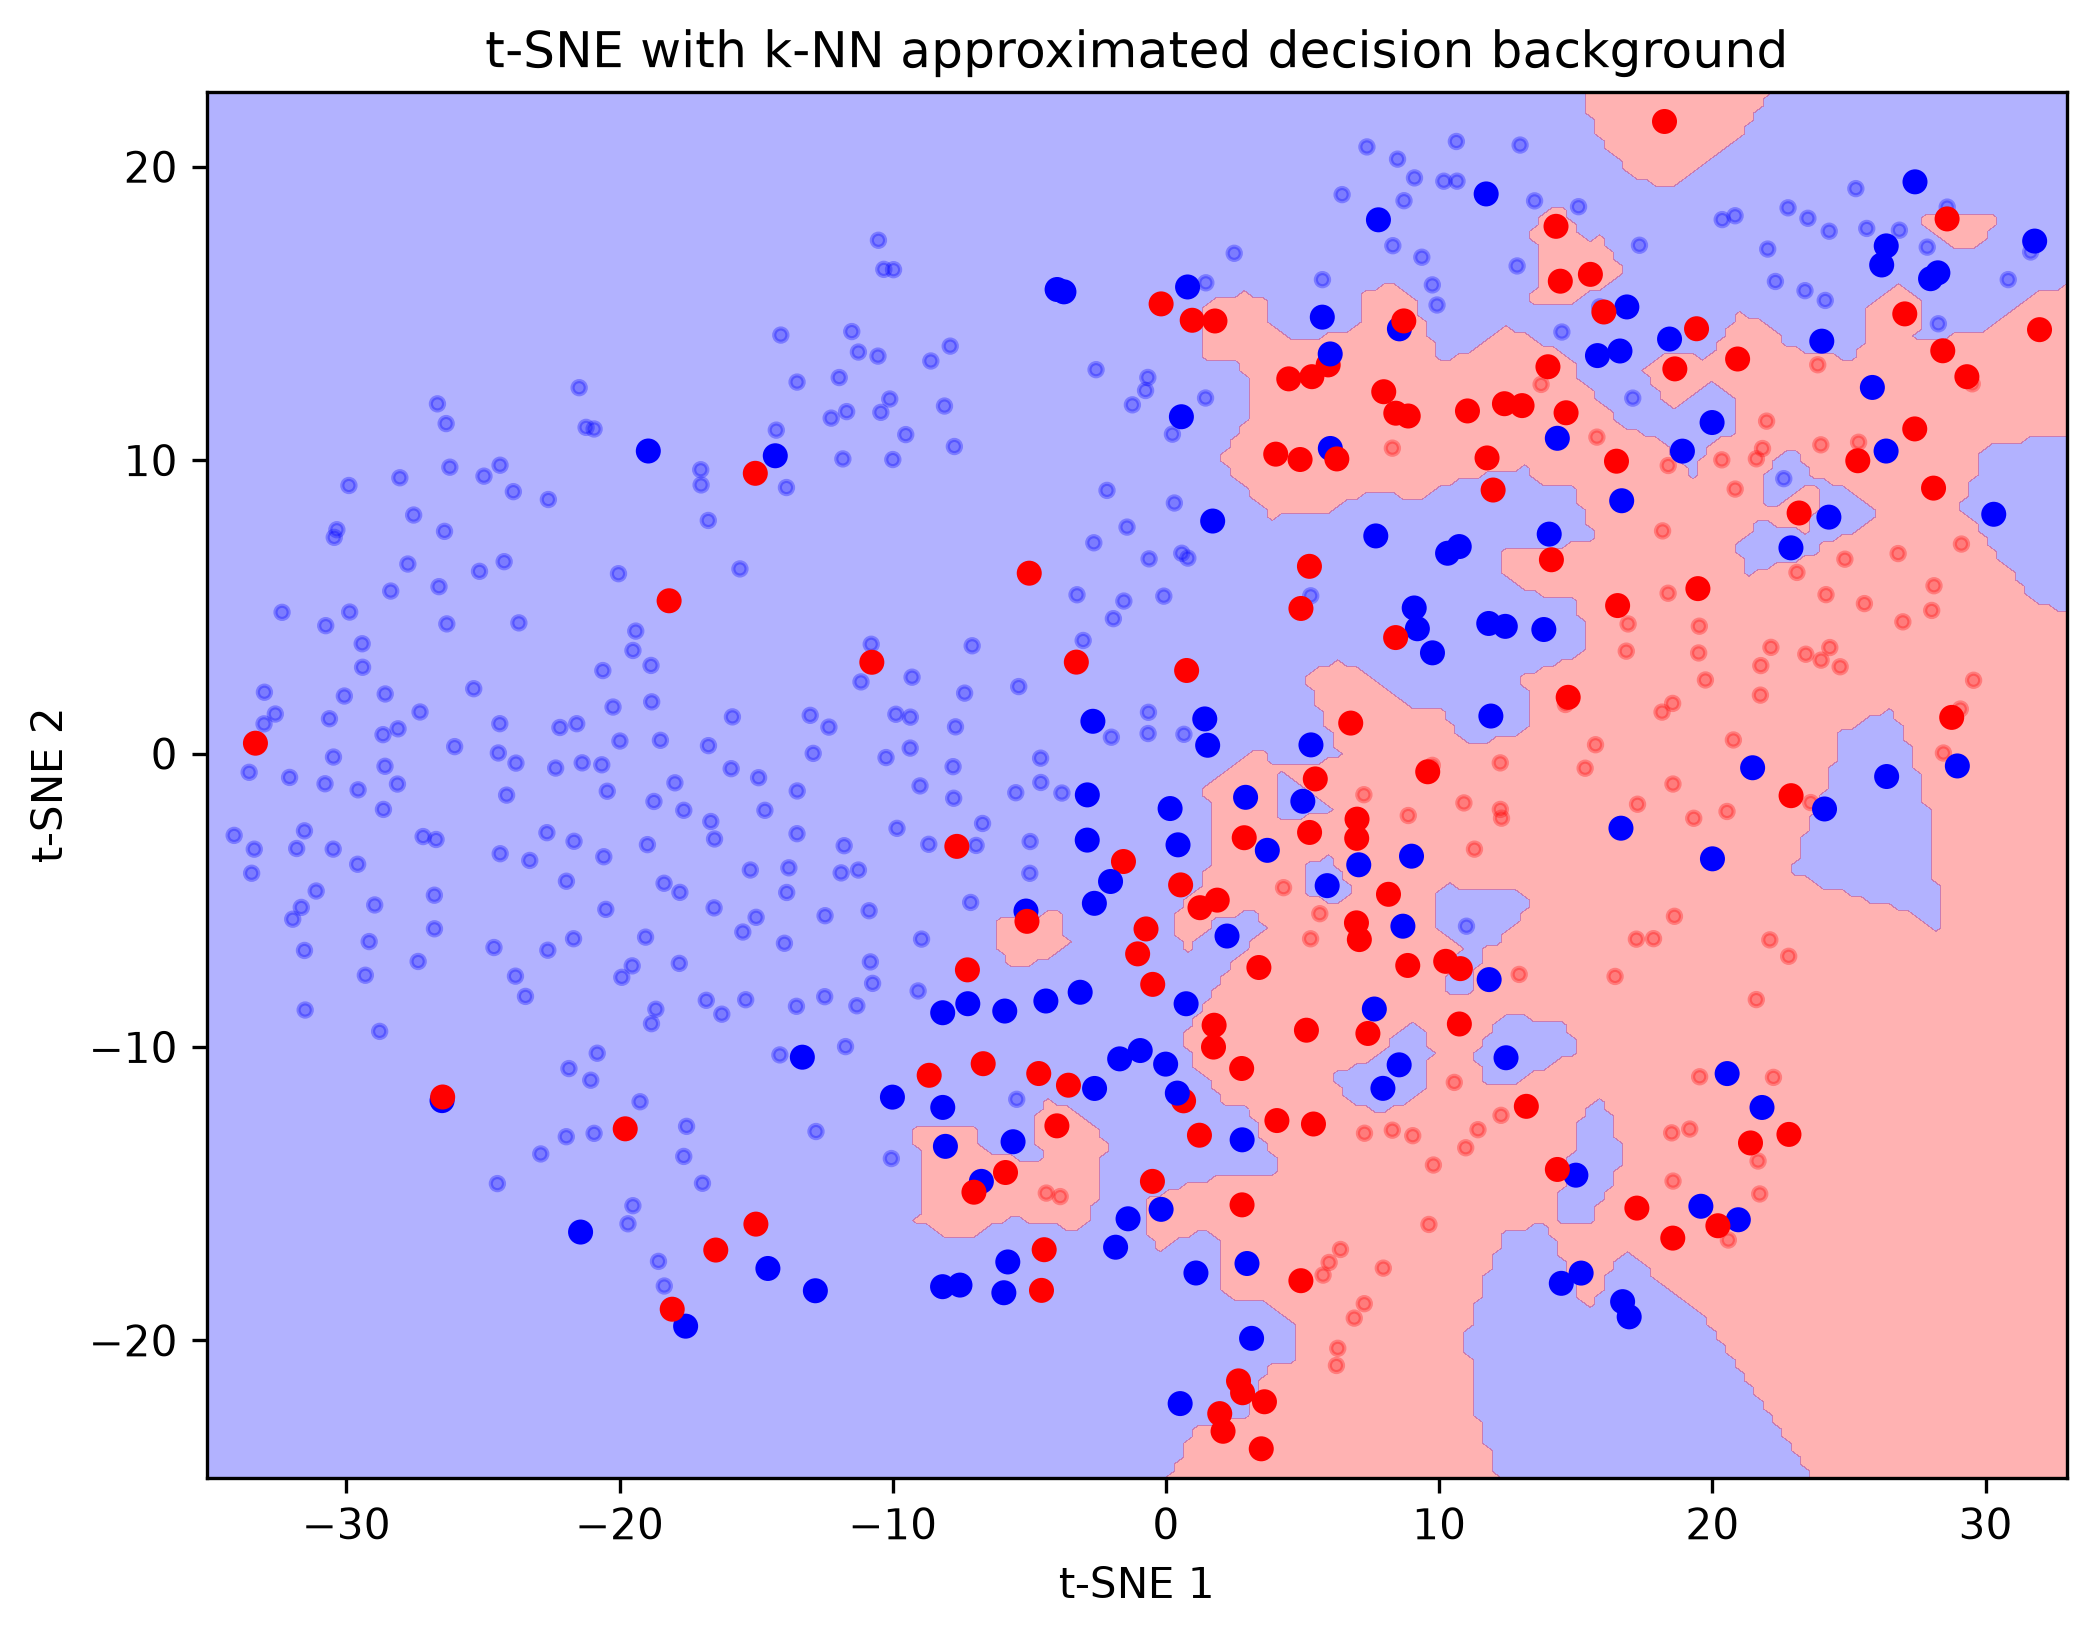
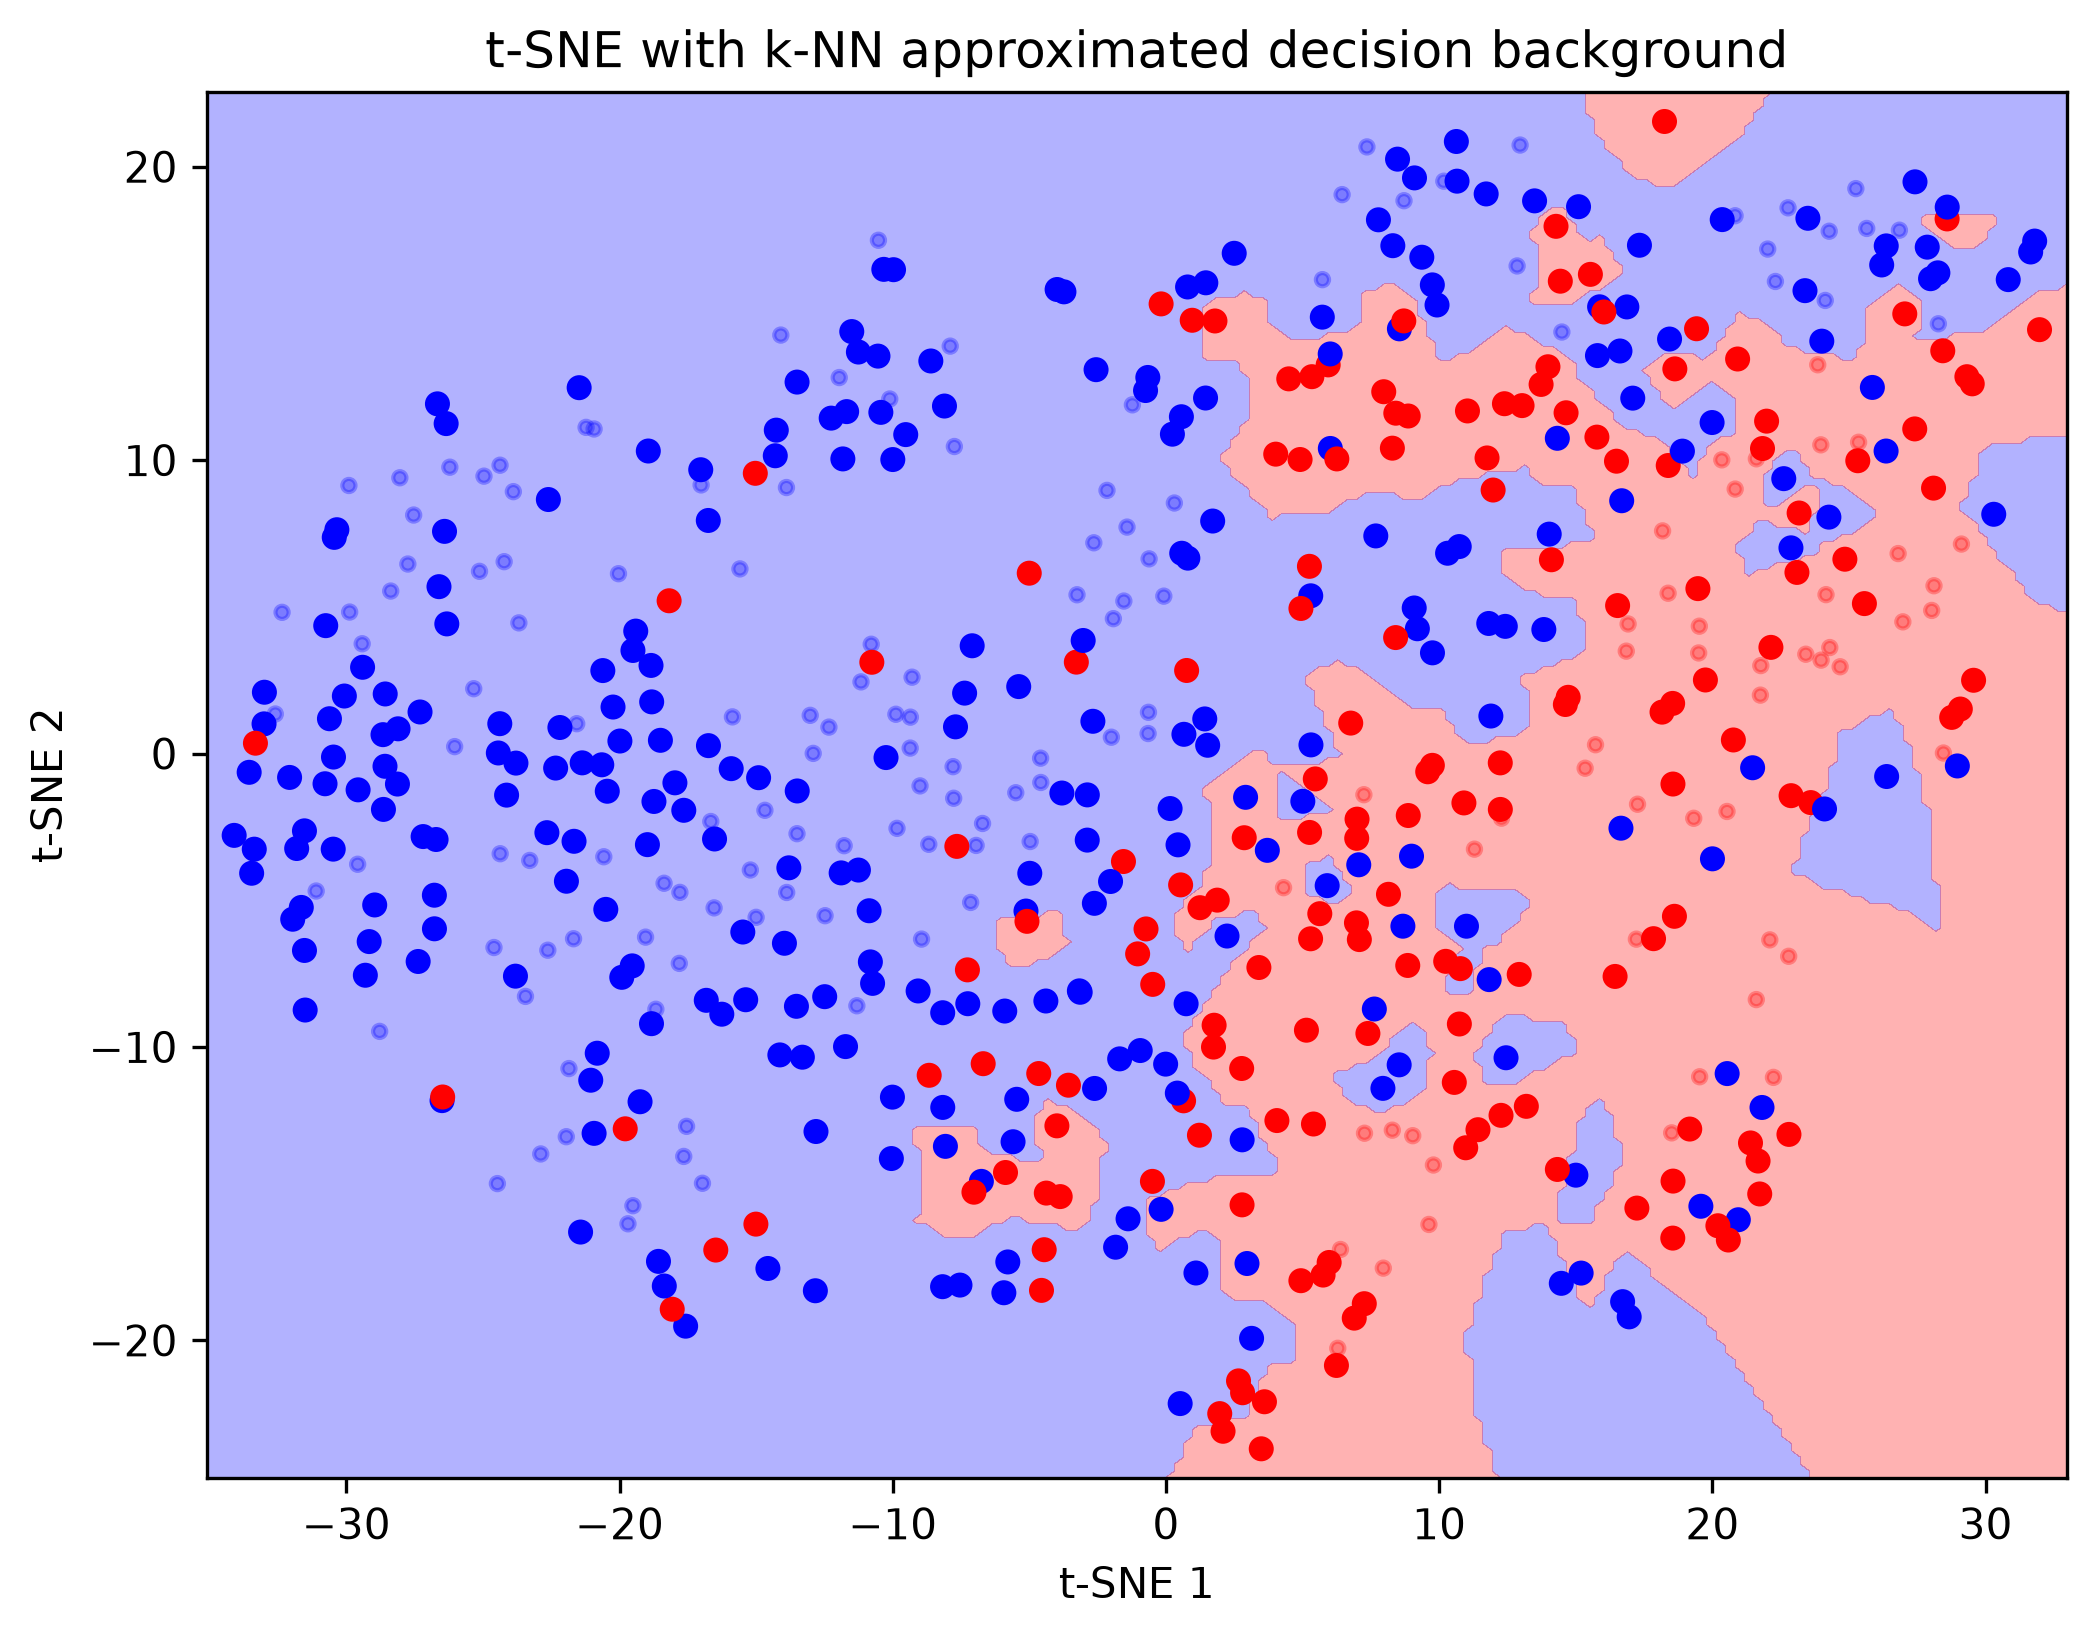
Add margin violators in visualization

diff --git a/students/am-zaytsev/lab3/src/lab3/main.py b/students/am-zaytsev/lab3/src/lab3/main.py
@@ -29,7 +29,10 @@ def main():
     train_acc = (model.predict(x_train) == y_train).mean()
     test_acc = (model.predict(x_test) == y_test).mean()
     draw_dataset(
-        x_train, y_train, y_pred=model.predict(x_train), mask=model.lam == model.c
+        x_train,
+        y_train,
+        y_pred=model.predict(x_train),
+        mask=(0 < model.lam) & (model.lam <= model.c),
     )
     plt.savefig("./images/train_data.png", dpi=300, bbox_inches="tight")
 

diff --git a/students/am-zaytsev/lab3/README.md b/students/am-zaytsev/lab3/README.md
@@ -48,7 +48,7 @@ $$w = \sum_i \lambda_i y_i x_i,\qquad f(x) = w\cdot x + b,$$
 - `draw_dataset` — проекция данных на 2D с помощью **t-SNE**; фон решения строится аппроксимацией k-NN по предсказаниям модели.
 - `draw_dataset_pca` — проекция на **PCA** (через сингулярное разложение, SVD); координаты сетки обратным преобразованием возвращаются в исходное пространство признаков и подаются на вход модели (`model.predict`), после чего рисуются настоящие области решений классификатора.
 
-Точки классов −1/+1 окрашены в синий/красный, опорные векторы (где `λ = C`) выделены.
+Точки классов −1/+1 окрашены в синий/красный, опорные векторы (граничные и нарушители, где ` 0 < λ <= C`) выделены жирным.
 ### Train
 ![](./images/train_data.png)
 ### Test
